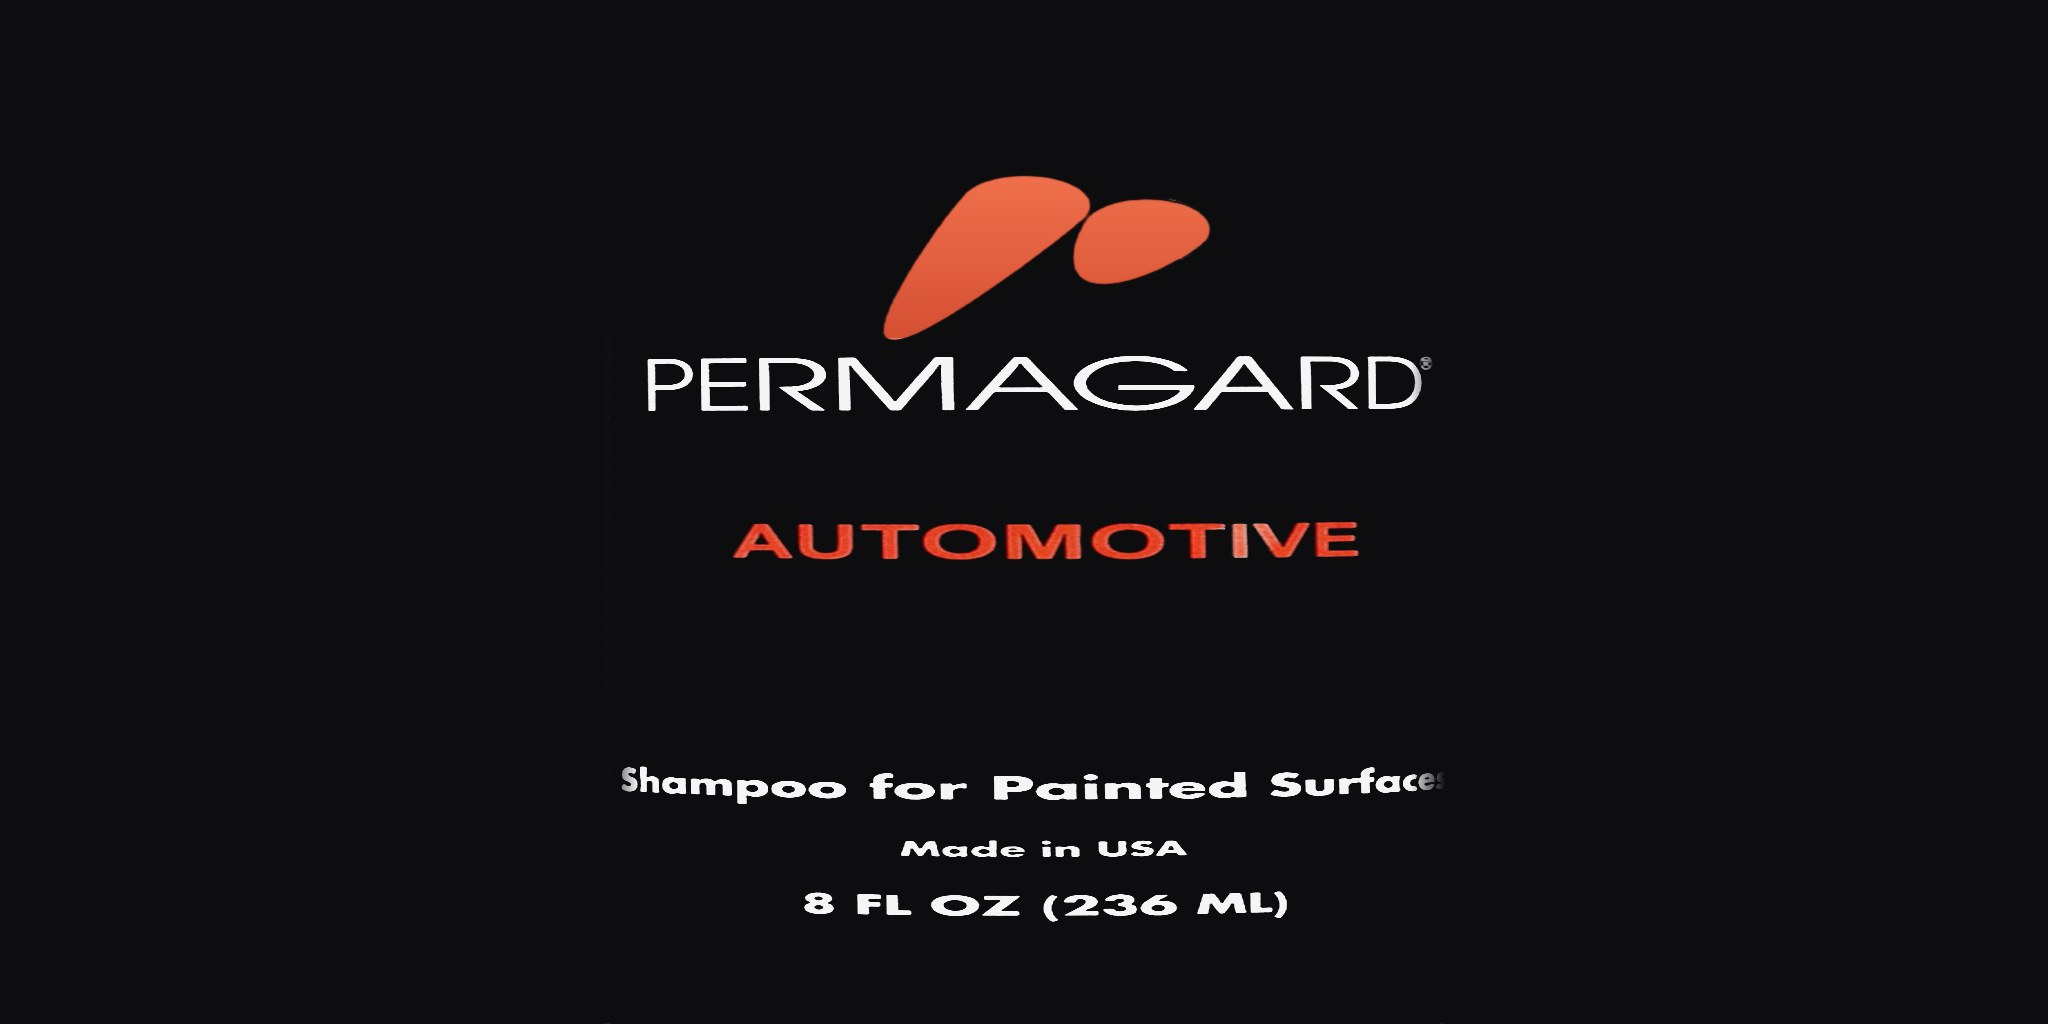
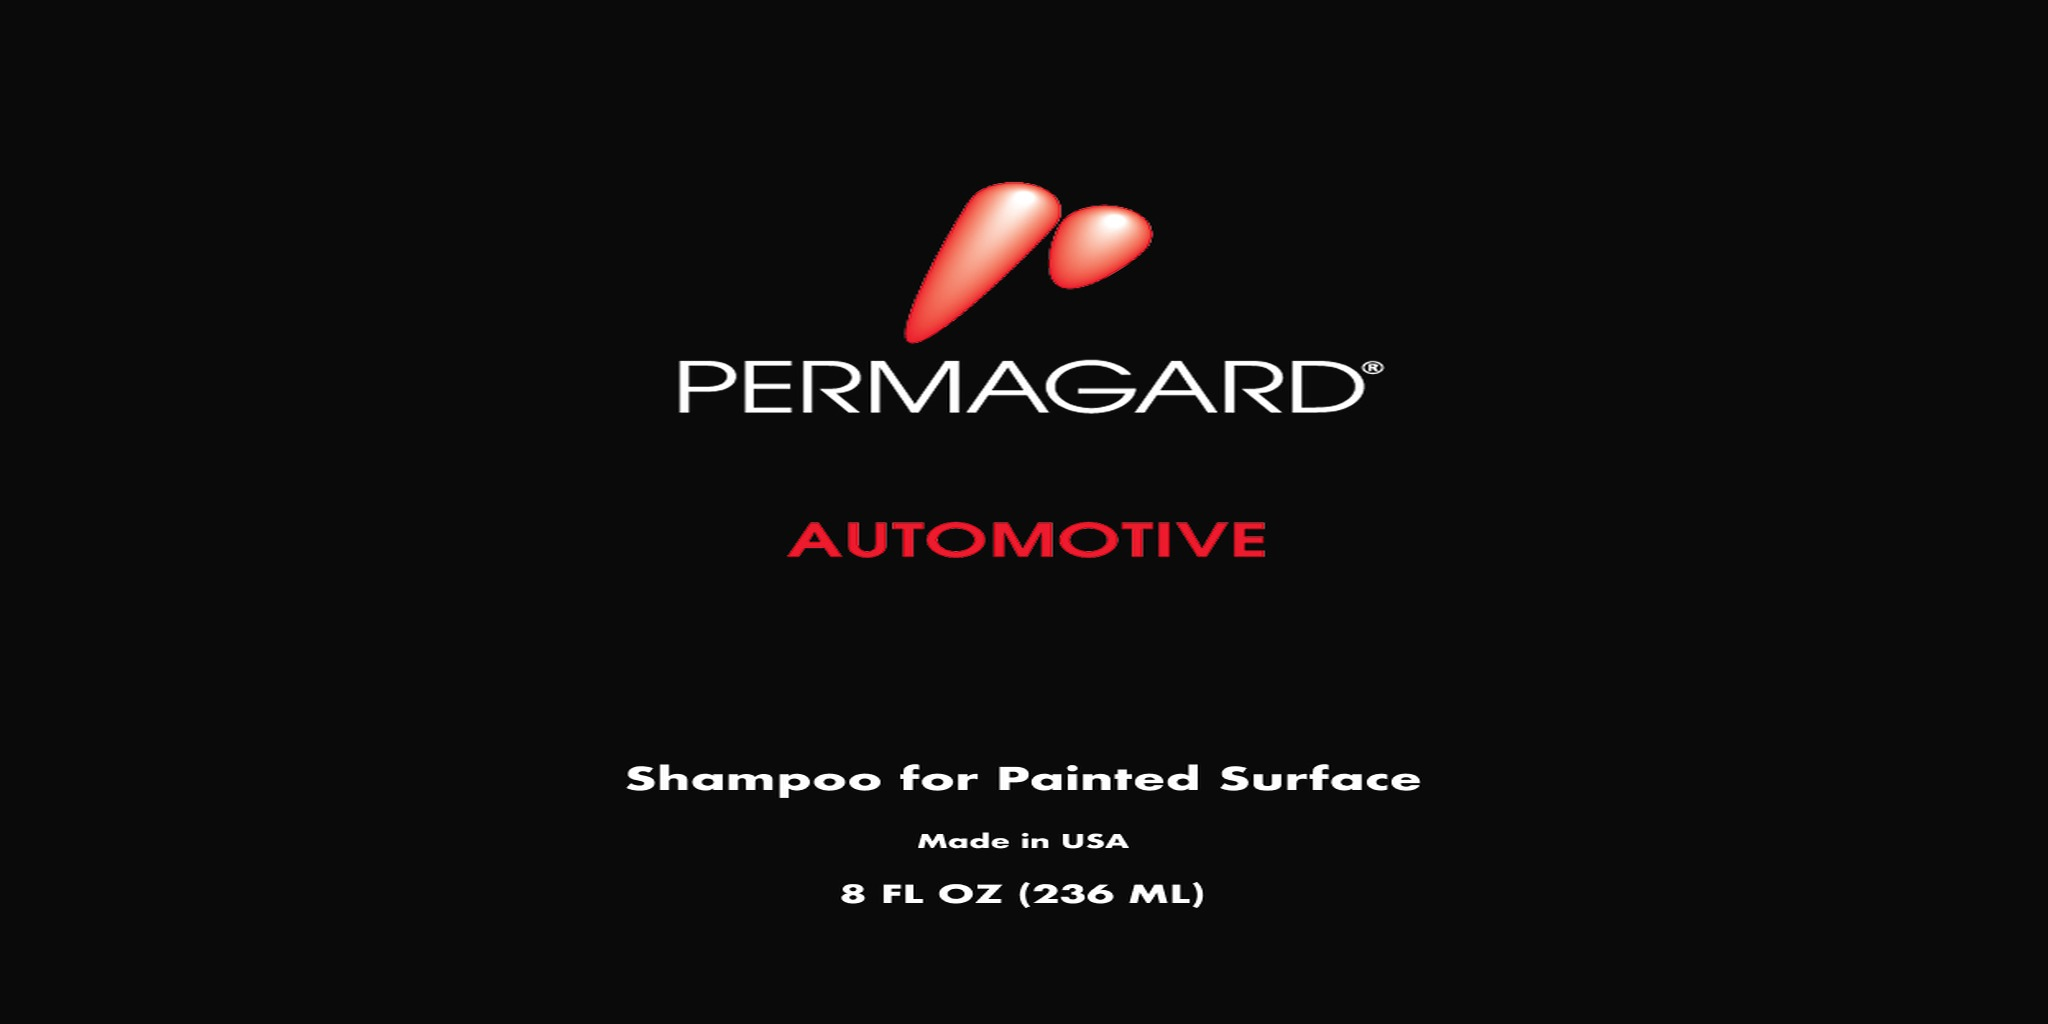
Hero bottles: new Permagard label, ridged black caps, golden liquid
- Permagard label redrawn (fonts and spacing), stretched to the bottle's wrap
- Permagard cap black; both caps get rounded grip ribs (the cap profiles had no
  side-wall rows inside the rib band, so the ribs never showed)
- Detailing Spray liquid: golden orange, a little see-through

diff --git a/assets/pb-hero-bottle.js b/assets/pb-hero-bottle.js
@@ -35,13 +35,19 @@ const LIQUID = [
   [0, 0.04], [0.58, 0.04], [0.85, 0.08], [0.94, 0.14], [0.97, 0.27], [0.97, 5.2],
   [0.93, 5.26], [0.86, 5.3], [0, 5.3],
 ];
-const CAP = [[0, 5.62], [0.455, 5.62], [0.455, 6.18], [0.42, 6.24], [0.28, 6.27], [0, 6.27]];
-const CAP_RIBS = { bottom: 5.66, top: 6.14, radius: 0.43 };
+// Side wall rows just outside and inside the ribbed band (CAP_RIBS), so the ribs have
+// vertices to push: a smooth lip at the bottom and top, ribbed in between.
+const CAP = [
+  [0, 5.62], [0.455, 5.62], [0.455, 5.64], [0.455, 5.68], [0.455, 6.12], [0.455, 6.16],
+  [0.455, 6.18], [0.42, 6.24], [0.28, 6.27], [0, 6.27],
+];
+// Rounded ribs with narrow grooves, the same size as the Permagard cap's.
+const CAP_RIBS = { bottom: 5.66, top: 6.14, radius: 0.43, count: 60, depth: 0.08, round: true };
 const LABEL = { bottom: 0.52, top: 4.98 };
 
 /* Permagard Car Wash Shampoo (236 ml), measured from its product photo the same way (body
    483 px wide, 1,612 px from base to cap top): opaque white plastic, a glossy black label
-   from just above the base to the shoulder, and a ribbed white flat-top cap. Scaled to the
+   from just above the base to the shoulder, and a ribbed black flat-top cap. Scaled to the
    Detailing Spray's height so the two balance in the hero. */
 const PERMAGARD = {
   shell: [
@@ -49,11 +55,17 @@ const PERMAGARD = {
     [0.98, 0.27], [0.995, 0.35], [1, 0.45], [1, 5.55], [0.994, 5.64], [0.983, 5.72],
     [0.961, 5.76], [0.882, 5.81], [0.716, 5.85], [0.542, 5.89], [0.53, 5.95],
   ],
-  cap: [[0, 5.93], [0.522, 5.93], [0.522, 6.6], [0.49, 6.64], [0.4, 6.665], [0, 6.675]],
-  capRibs: { bottom: 6.02, top: 6.58, radius: 0.5, count: 90 },
+  // Side wall rows just outside and inside the ribbed band (capRibs), so the ribs have
+  // vertices to push: a smooth lip at the bottom and top, ribbed in between.
+  cap: [
+    [0, 5.93], [0.522, 5.93], [0.522, 6.0], [0.522, 6.04], [0.522, 6.56], [0.522, 6.6],
+    [0.49, 6.64], [0.4, 6.665], [0, 6.675],
+  ],
+  // Rounded ribs with narrow grooves, deep enough to show in shading on the satin black cap.
+  capRibs: { bottom: 6.02, top: 6.58, radius: 0.5, count: 70, depth: 0.08, round: true },
   // turn: radians the artwork is turned round the bottle, to centre it in the hero's pose.
   label: { bottom: 0.36, top: 5.54, radius: 1.004, turn: -0.1 },
-  capColor: 0xf2f2f2,
+  capColor: 0x141414,
   height: 6.675,
 };
 
@@ -79,7 +91,7 @@ const MODELS = {
     shell: SHELL,
     liquid: LIQUID,
     cap: CAP,
-    capRibs: { ...CAP_RIBS, count: 45 },
+    capRibs: CAP_RIBS,
     label: { ...LABEL, radius: 1.006 },
     height: HEIGHT,
     clear: true,
@@ -644,8 +656,8 @@ class PBHeroBottle extends HTMLElement {
       const spring = held ? GRAB.hold : GRAB.release;
       const targetX = held ? (pointer.clientX - grab.x) * grab.unitsPerPx : 0;
       const targetY = held ? -(pointer.clientY - grab.y) * grab.unitsPerPx : 0;
-      drag.vx += (spring.stiffness * (targetX - drag.x) - spring.damping * drag.vx) * dt;
-      drag.vy += (spring.stiffness * (targetY - drag.y) - spring.damping * drag.vy) * dt;
+      drag.vx += (SLOSH.stiffness * (targetX - drag.x) - SLOSH.damping * drag.vx) * dt;
+      drag.vy += (SLOSH.stiffness * (targetY - drag.y) - SLOSH.damping * drag.vy) * dt;
       drag.x += drag.vx * dt;
       drag.y += drag.vy * dt;
       const tip = Math.min(Math.max(drag.vx * GRAB.tilt, -GRAB.maxTilt), GRAB.maxTilt);
@@ -725,15 +737,21 @@ function bottleGeometries(THREE, model) {
   if (model.liquid) parts.liquid = lathe(THREE, model.liquid, 96);
 
   // Cap with vertical grip ribs: push the side wall in and out around the circumference.
+  // Square ribs by default; round ones are broad crowns between narrow grooves (more segments
+  // per rib so each crown is curved and catches its own highlight).
   const ribs = model.capRibs;
-  const cap = lathe(THREE, model.cap, ribs.count * 4);
+  const depth = ribs.depth ?? 0.025;
+  const cap = lathe(THREE, model.cap, ribs.count * (ribs.round ? 10 : 4));
   const position = cap.attributes.position;
   for (let i = 0; i < position.count; i++) {
     const x = position.getX(i);
     const y = position.getY(i);
     const z = position.getZ(i);
     if (y > ribs.bottom && y < ribs.top && Math.hypot(x, z) > ribs.radius) {
-      const scale = 1 + 0.025 * Math.sign(Math.cos(Math.atan2(x, z) * ribs.count));
+      const wave = Math.cos(Math.atan2(x, z) * ribs.count);
+      const scale = ribs.round
+        ? 1 + depth * (Math.sqrt((1 + wave) / 2) - 0.5)
+        : 1 + depth * Math.sign(wave);
       position.setXYZ(i, x * scale, y, z * scale);
     }
   }
@@ -869,13 +887,15 @@ function addLiquidSurface(THREE, material, colour, tint = 0.25, rim = 0) {
 /* Liquid looks. Gel: a little see-through, glass-smooth clear coat, bright highlights, a
    faint iridescent shimmer, and edges that glow (rim) the way light catches gelatin. */
 const LIQUID_FINISHES = {
+  // Golden amber like the product photos: mostly solid with a hint of see-through, glowing
+  // as if lit through, a slightly lighter top and edges.
   liquid: {
-    opacity: 0.92,
-    emissiveIntensity: 0.28,
-    roughness: 0.08,
-    clearcoatRoughness: 0.04,
-    surfaceTint: 0.25,
-    rim: 0,
+    opacity: 0.82,
+    emissiveIntensity: 0.3,
+    roughness: 0.04,
+    clearcoatRoughness: 0.02,
+    surfaceTint: 0.2,
+    rim: 0.25,
   },
   gel: {
     opacity: 0.8,
@@ -929,7 +949,7 @@ function bottleMaterials(THREE, labelTexture, liquidColour, gloss, finish = 'liq
 }
 
 /* An opaque bottle (Permagard): glossy white plastic, a high-gloss black label wrap and a
-   satin cap in the model's capColor (white for Permagard). No liquid. */
+   satin cap in the model's capColor (black for Permagard). No liquid. */
 function opaqueBottleMaterials(THREE, labelTexture, gloss, capColor = 0x141414) {
   return {
     shell: new THREE.MeshPhysicalMaterial({
